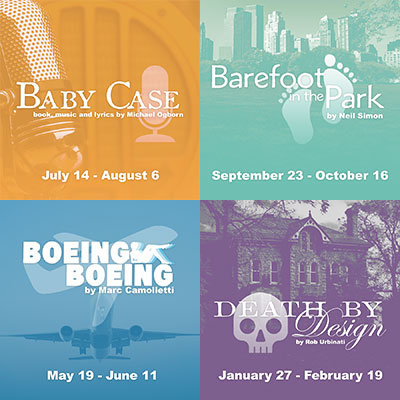
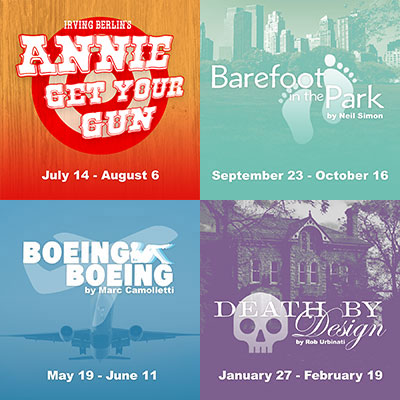
added annie

Changed region(s): [[0.0, 0.0, 0.51, 0.51], [0.48, 0.12, 0.51, 0.15]]

diff --git a/productions/show-annie-get-your-gun.html b/productions/show-annie-get-your-gun.html
@@ -83,13 +83,13 @@
         <div class="container">
             <div class="row">
                 <div class="col-sm-4">
-                    <img src="../images/productions/squares/baby-case-large.jpg" class="tease" title="Baby Case" alt="Baby Case" />
+                    <img src="../images/productions/squares/annie-get-your-gun.jpg" class="tease" title="Annie Get Your Gun" alt="Annie Get Your Gun" />
                 </div>
                 <div class="col-sm-8">
-                    <h3>Baby Case</h3>
-                    <p>It was the "Crime of the Century,"" when the Lindbergh baby was kidnapped. And the media circus that transpired capitalized on the public fascination of fame, crime, celebrity and intrigue. A cast of 11 portray the famous faces of the day including Walter Winchell, J. Edgar Hoover, Ginger Rogers and the Lindbergh’s in a musical at times comic and ironic, then heartfelt and moving. Winner of the New York Musical Festival awards for Best Musical, Book and Score, Baby Case shines the spotlight on the price of recognition mixed with the heartbreak of loss.</p>
+                    <h3>Annie Get Your Gun</h3>
+                    <p>With lyrics and music by Irving Berlin, Annie Get Your Gun is a fictionalized version of the life of Annie Oakley, a sharpshooter who starred in Buffalo Bill's Wild West, and her romance with sharpshooter Frank Butler. Featuring such classic Musical Theater songs like "Anything You Can Do, I Can Do Better," "You Can't Get a Man With a Gun," and "There's No Business Like Show Business," the summer just got hotter at Stage Door Players." Featuring the sparring lovers from last summer's hit, "Kiss Me, Kate" Paige Mattox and Bryant Smith as Annie and Frank.</p>
                     <h5>July 14 through August 6, 2017</h5>
-                    <h6>Book, Music and Lyrics by Michael Ogborn</h6>
+                    <h6>Lyrics and Music by Irving Berlin</h6>
                 </div>
                 
                 <!-- <div class="col-sm-8">

diff --git a/productions/show-let-nothing-you-dismay-2016.html b/productions/show-let-nothing-you-dismay-2016.html
@@ -83,13 +83,20 @@
         <div class="container">
             <div class="row">
                 <div class="col-sm-4">
-                    <img src="../images/productions/squares/let-nothing-you-dismay-large.jpg" class="tease preshow" title="Let Nothing You Dismay" alt="Let Nothing You Dismay" />
-                </div>
-                <div class="col-sm-8">
+                    <img src="../images/productions/squares/let-nothing-you-dismay-large.jpg" class="treatment teaser pull-right" title="Let Nothing You Dismay" alt="Let Nothing You Dismay" />
                     <h3>Let Nothing You Dismay</h3>
                     <p>The Gordon's, the Sapersteins and all of the other crazy folks in Kevin and Allie's life are back to meddle in the arrival of their first child. The holiday comedy returns to Stage Door after its record breaking sold out run last season. The original cast returns, as eight actors play 22 characters in this lightning fast farce that celebrates family and all that goes along with it.</p>
                     <h5>December 2 through December 18, 2016</h5>
                     <h6>By Topher Payne </h6>
+                </div>
+                <div class="col-sm-8">
+                    <div id="let_nothing_you_dismay" class="swiper-container">
+                        <div class="swiper-wrapper">
+
+                        </div>
+                        <!-- Add Pagination -->
+                        <div class="swiper-pagination"></div>
+                    </div>
                 </div>
                 
                 <!-- <div class="col-sm-8">

diff --git a/productions/index.html b/productions/index.html
@@ -151,8 +151,8 @@
                     </a>
                 </div>
                 <div class="col-xs-6 col-sm-4">
-                    <a href="show-baby-case.html">
-                        <img src="../images/productions/squares/baby-case-large.jpg" class="tease" title="Baby Case" alt="Baby Case" />
+                    <a href="show-annie-get-your-gun.html">
+                        <img src="../images/productions/squares/annie-get-your-gun.jpg" class="tease" title="Annie Get Your Gun" alt="Annie Get Your Gun" />
                     </a>
                 </div>
             </div>
